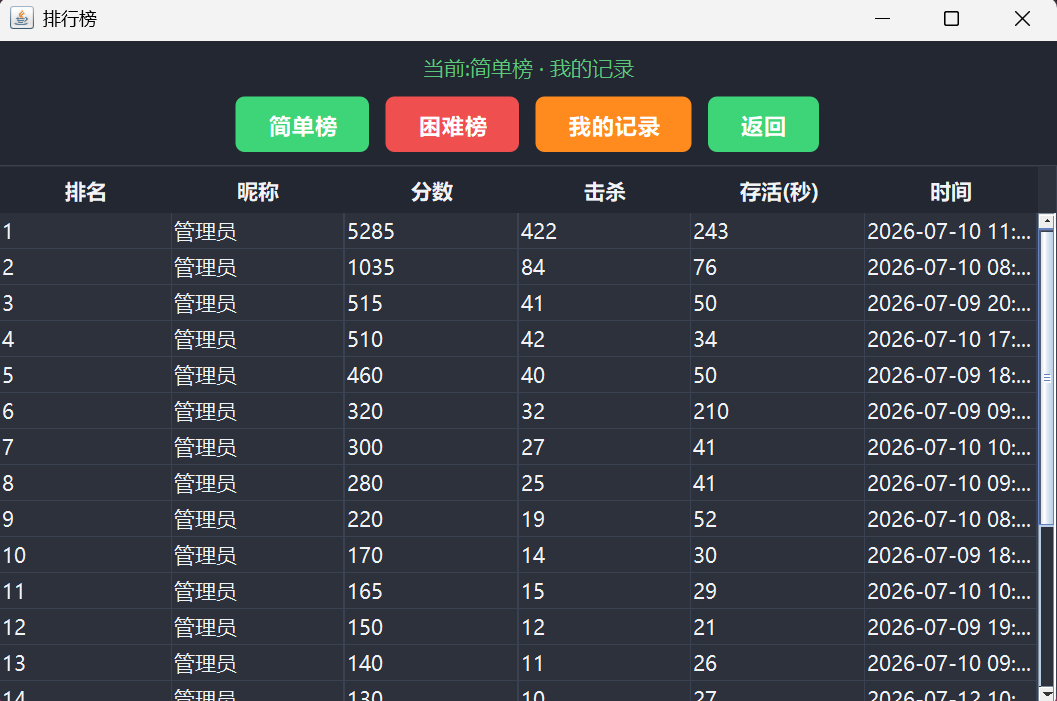
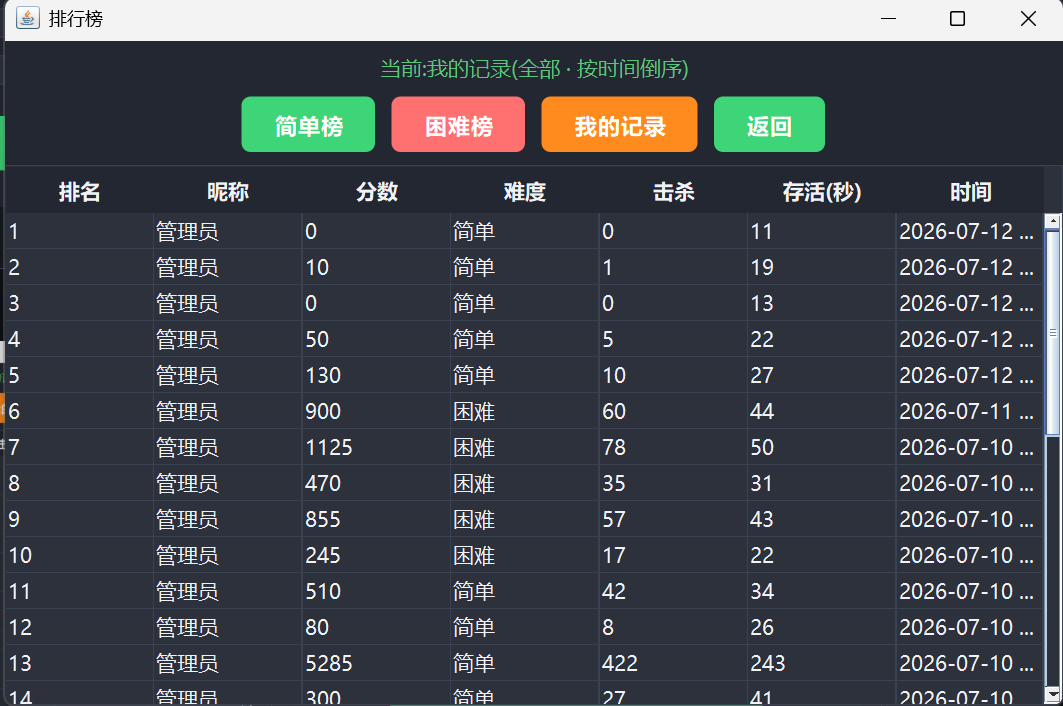
更新排行榜·我的记录截图(全部战绩+难度列) + README 09 说明

diff --git a/README.md b/README.md
@@ -47,7 +47,7 @@
 | <img src="images/03-forgot-password.png" width="380"><br>**03 忘记密码**（输手机号申请重置） | <img src="images/04-menu-admin.png" width="380"><br>**04 主菜单**（管理员，多「用户管理」） |
 | <img src="images/05-help.png" width="380"><br>**05 游戏说明** | <img src="images/06-admin-users.png" width="380"><br>**06 用户管理**（admin 审核/删除） |
 | <img src="images/07-change-password.png" width="380"><br>**07 修改密码** | <img src="images/08-leaderboard-easy.png" width="380"><br>**08 排行榜·简单榜** |
-| <img src="images/09-leaderboard-mine.png" width="380"><br>**09 排行榜·我的记录** | <img src="images/10-difficulty-select.png" width="380"><br>**10 难度选择**（简单/困难） |
+| <img src="images/09-leaderboard-mine.png" width="380"><br>**09 排行榜·我的记录**（全部·按时间·含难度） | <img src="images/10-difficulty-select.png" width="380"><br>**10 难度选择**（简单/困难） |
 | <img src="images/11-gameplay-start.png" width="380"><br>**11 游戏中·开局** | <img src="images/12-gameplay-kill.png" width="380"><br>**12 游戏中·击杀 +10** |
 | <img src="images/13-gameplay-damaged.png" width="380"><br>**13 游戏中·受伤** | <img src="images/14-gameover.png" width="380"><br>**14 本局结算** |
 